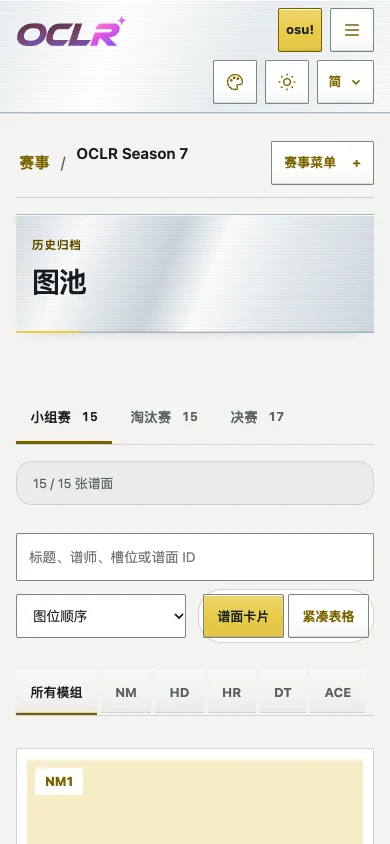
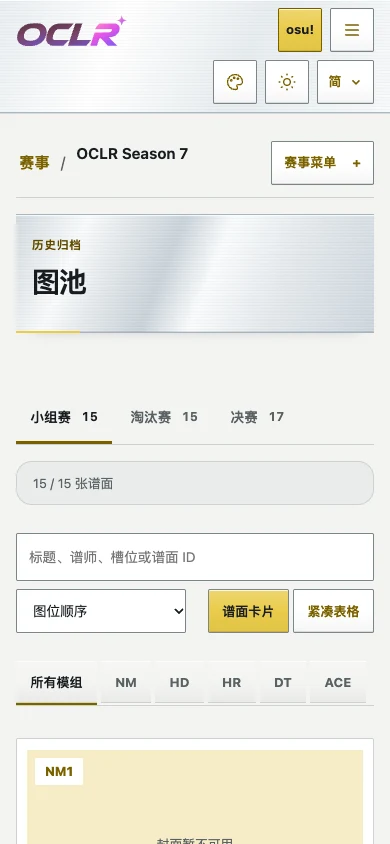
test: verify S7 mappool controls across browsers and record visual fixes

diff --git a/tests/e2e/graphite-appearance.spec.ts b/tests/e2e/graphite-appearance.spec.ts
@@ -43,13 +43,11 @@ test.describe("S7 Graphite Arena appearance", () => {
   test.afterAll(closeDb);
 
   test("keeps mappool text actions clear and long titles readable", async ({
-    page,
     context,
     isMobile,
-  }, info) => {
+  }) => {
     test.setTimeout(180000);
     const errors: string[] = [];
-    page.on("pageerror", (error) => errors.push(error.message));
     // Cover-provider failures must not affect title layout or the real controls.
     await context.route("https://assets.ppy.sh/**", (route) =>
       route.fulfill({ status: 404, body: "" }),
@@ -57,6 +55,11 @@ test.describe("S7 Graphite Arena appearance", () => {
     for (const locale of ["en", "zh-Hans", "zh-Hant"])
       for (const theme of ["light", "dark"])
         for (const width of isMobile ? [320, 390, 699] : [655, 699, 1440]) {
+          // Keep matrix cases on independent pages so a deliberate preference or
+          // viewport change never interrupts the previous page's RSC prefetches.
+          const page = await context.newPage();
+          page.on("pageerror", (error) => errors.push(error.message));
+          await page.setViewportSize({ width, height: 815 });
           await context.addCookies(
             [
               ["oclr-locale", locale],
@@ -64,7 +67,6 @@ test.describe("S7 Graphite Arena appearance", () => {
               ["oclr-appearance", "graphite-arena"],
             ].map(([name, value]) => ({ name, value, url: origin })),
           );
-          await page.setViewportSize({ width, height: 815 });
           expect((await page.goto("/tournaments/s7/mappools"))?.status()).toBe(
             200,
           );
@@ -125,52 +127,49 @@ test.describe("S7 Graphite Arena appearance", () => {
                   .analyze()
               ).violations,
             ).toEqual([]);
-            await page
-              .locator("#map-NM2")
-              .evaluate((node) => node.scrollIntoView({ block: "center" }));
-            await page.screenshot({
-              path: info.outputPath(`mappools-${locale}-${theme}.png`),
-              animations: "disabled",
-            });
           }
+          if (locale === "zh-Hant" && theme === "dark" && width === 699) {
+            // Keyboard activation still opens the full title and restores focus on close.
+            const title = page.locator("#map-ACE1 .map-open-button");
+            await title.focus();
+            await expect(title).toHaveCSS("outline-style", /solid|auto/);
+            await page.keyboard.down("Space");
+            await expect(title).toHaveCSS("background-image", "none");
+            await expect(title).toHaveCSS("box-shadow", "none");
+            await expect(title).toHaveCSS("transform", "none");
+            await page.keyboard.up("Space");
+            const dialog = page.getByRole("dialog");
+            await expect(dialog.getByRole("heading").first()).toHaveText(
+              "Shimotsuki Haruka - Secret Liqueur [Last Order]",
+            );
+            await page.keyboard.press("Escape");
+            await expect(title).toBeFocused();
+            await page.locator(".map-view-control button").last().click();
+            await expect(page.locator(".archive-map-list")).toBeVisible();
+            await expect(
+              page.locator(".map-view-control button").last(),
+            ).toHaveAttribute("aria-pressed", "true");
+            await expect(page.locator("#map-NM2 .map-open-button")).toHaveCSS(
+              "background-image",
+              "none",
+            );
+            await page.locator("#map-NM2 .map-open-button").click();
+            await expect(dialog.getByRole("heading").first()).toHaveText(
+              "DragonForce - My Heart Will Go On [Expert]",
+            );
+            await page.keyboard.press("Escape");
+            await page.emulateMedia({ forcedColors: "active" });
+            await expect(page.locator(".map-view-control")).toHaveCSS(
+              "border-top-width",
+              "0px",
+            );
+            await expect(
+              page.locator('.map-view-control button[aria-pressed="true"]'),
+            ).toHaveCSS("outline-style", "solid");
+          }
+          await page.waitForLoadState("networkidle");
+          await page.close();
         }
-    // Keyboard activation still opens the full title and restores focus on close.
-    const title = page.locator("#map-ACE1 .map-open-button");
-    await title.focus();
-    await expect(title).toHaveCSS("outline-style", /solid|auto/);
-    await page.keyboard.down("Space");
-    await expect(title).toHaveCSS("background-image", "none");
-    await expect(title).toHaveCSS("box-shadow", "none");
-    await expect(title).toHaveCSS("transform", "none");
-    await page.keyboard.up("Space");
-    const dialog = page.getByRole("dialog");
-    await expect(dialog.getByRole("heading").first()).toHaveText(
-      "Shimotsuki Haruka - Secret Liqueur [Last Order]",
-    );
-    await page.keyboard.press("Escape");
-    await expect(title).toBeFocused();
-    await page.locator(".map-view-control button").last().click();
-    await expect(page.locator(".archive-map-list")).toBeVisible();
-    await expect(
-      page.locator(".map-view-control button").last(),
-    ).toHaveAttribute("aria-pressed", "true");
-    await expect(page.locator("#map-NM2 .map-open-button")).toHaveCSS(
-      "background-image",
-      "none",
-    );
-    await page.locator("#map-NM2 .map-open-button").click();
-    await expect(dialog.getByRole("heading").first()).toHaveText(
-      "DragonForce - My Heart Will Go On [Expert]",
-    );
-    await page.keyboard.press("Escape");
-    await page.emulateMedia({ forcedColors: "active" });
-    await expect(page.locator(".map-view-control")).toHaveCSS(
-      "border-top-width",
-      "0px",
-    );
-    await expect(
-      page.locator('.map-view-control button[aria-pressed="true"]'),
-    ).toHaveCSS("outline-style", "solid");
     expect(errors).toEqual([]);
   });
 

diff --git a/docs/design/season-themes/s7.html b/docs/design/season-themes/s7.html
@@ -77,8 +77,8 @@
     <header>
       <h1>S7 · 最新應用 UI 設計對照</h1>
       <p>
-        圖片來自 main <code>515be9c</code> 上的 S7 實作
-        <code>182075a</code> 實際頁面，使用 S7 Graphite Arena 的 SSR
+        圖片來自 main <code>d34378e</code> 上的 S7 實作
+        <code>5ebd162</code> 實際頁面，使用 S7 Graphite Arena 的 SSR
         外觀偏好與打包樣式。拉絲銀色／深鋼金屬、具倒角與內凹槽的六角金屬嵌件，配上蜂巢線稿及競技黃細線；保留完整原主視覺。
       </p>
       <p>
@@ -92,6 +92,11 @@
     <p style="margin: 16px 24px">
       金屬嵌件局部：<a href="s7/detail-desktop-light.png">Light</a> ·
       <a href="s7/detail-desktop-dark.png">Dark</a>（實際頁面 2× 截圖）
+    </p>
+    <p style="margin: 16px 24px">
+      圖池修復局部：<a href="s7/map-controls-dark.png">檢視控制</a> ·
+      <a href="s7/map-nm2-dark.png">NM2</a> ·
+      <a href="s7/map-ace1-dark.png">ACE1</a>
     </p>
     <form aria-label="預覽控制">
       <label

diff --git a/docs/design/season-themes/s7/DESIGN.md b/docs/design/season-themes/s7/DESIGN.md
@@ -1,6 +1,6 @@
 # S7 — Graphite Arena / 石墨競技場
 
-追蹤：[#198](https://github.com/OCLR-dev/OCLR-website/issues/198)。本輪依主辦方要求，以 main `515be9c` 的實際 UI 精修並正式接入 `graphite-arena`，等待主辦方視覺審閱；未合併或部署。
+追蹤：[#198](https://github.com/OCLR-dev/OCLR-website/issues/198)。本輪依主辦方要求，以 main `d34378e` 的實際 UI 精修並正式接入 `graphite-arena`，等待主辦方視覺審閱；未合併或部署。
 
 ## 設計方向
 
@@ -75,7 +75,7 @@ DATABASE_URL="$TEST_DATABASE_URL" ADMIN_OSU_IDS=60001 APP_URL=http://127.0.0.1:3
 在另一個 terminal 對同一 DB，設定 `S7_UI_BASELINE` 為本輪 runtime 提交，執行：
 
 ```sh
-S7_UI_BASELINE=182075a9021b27ab470a6872b18bd8f73da41e8a node --import tsx docs/design/season-themes/s7/capture.mjs
+S7_UI_BASELINE=5ebd16294a21f581d37d9dd70236b1cd11255a18 node --import tsx docs/design/season-themes/s7/capture.mjs
 ```
 
 截圖程式核對 runtime／messages／public 與指定 SHA 完全一致，從實際 SSR 外觀偏好與已打包 CSS 產圖；不注入候選 CSS、不更換元件。檢查三個路由 × 四個寬度（320／390／768／1440）× 明暗、Axe AA、DOM／文字不變、五列統計、完整原圖、手機選單／焦點與 sticky stack，另檢查四組 forced colours。合成 session 只在記憶體，不進截圖或原始碼。
@@ -139,3 +139,16 @@ S7_UI_BASELINE=182075a9021b27ab470a6872b18bd8f73da41e8a node --import tsx docs/d
 建立 PR 時 main 已合併 #383 的系統明暗偏好。正常合併 main `515be9c`，三語 catalog 同時保留系統明暗訊息與 S7 名稱，未覆蓋任一方功能；S7 視覺素材與金屬樣式不變。合併後 runtime 為 `182075a9021b27ab470a6872b18bd8f73da41e8a`，最新圖庫依該實際 UI 重製。
 
 新增 S7 跟隨系統 → 手動覆蓋 → 恢復跟隨 → 跨頁的明暗回歸。相關 141 項單元測試、i18n extraction、check、最終 tsc 與 production build 通過。Chrome 桌面／手機 22 項通過，包含 S7／系統明暗、三語選單、Header 幾何、全站／賽事預設及公開／Admin／Captain／OBS；Safari 桌面／手機 4 項通過。最新 24 組 UI／24 次 Axe AA 零違規，4 組 forced colours 通過；16 張頁面圖、2 張局部、2 張選單與12張 default 對照已更新。沒有重跑未受影響的完整 unit/integration 或依賴稽核，CI 以 PR #384 的 exact head 為準。
+
+### 圖池控制與長標題修復（2026-10-27，PR #384 合併後）
+
+主辦方在 655／699px 圖池頁標註三處：檢視切換外層圓框、NM2 及 ACE1 標題誤套金屬按鈕底板／底板跟隨文字長度。修復分支基於 main `d34378e`，runtime 為 `5ebd16294a21f581d37d9dd70236b1cd11255a18`。
+
+- 圖池檢視切換外層移除 border／radius／padding／底色；保留兩顆獨立控制、選取狀態、鍵盤焦點與高對比標記。
+- 通用金屬材質排除 `.map-open-button`；譜面標題在一般、hover、focus、active 都是透明文字操作，沒有金屬漸層、陰影或按壓位移。
+- 標題點選區使用整欄寬、至少44px高，沿用所在標題的字體與1.5行高；完整 literal 曲名與難度可換行，不裁切或縮成固定字數。卡片／緊湊表格均可開啟原詳情與還原焦點。
+- 699px 實測：修復前 NM2／ACE1 點選區分別338.22／374.30px，所在標題欄為404.89px，且帶有漸層／inset陰影；修復後兩者均為404.89px，背景與陰影為none。外層24px圓角／1px框改為0。
+
+[檢視控制 Light](map-controls-light.png)／[Dark](map-controls-dark.png) · [NM2 Light](map-nm2-light.png)／[Dark](map-nm2-dark.png) · [ACE1 Light](map-ace1-light.png)／[Dark](map-ace1-dark.png)。來自699px實際頁面、原生2×局部，沒有後製。隔離預覽阻擋外部封面服務，因此局部圖使用既有缺圖狀態；修復未更改封面來源。
+
+本輪 check／production build／tsc／lint 通過。更新24組實際UI／24次Axe AA及4組forced colours，零錯誤。新增回歸以每個案例獨立頁面避免 WebKit 快速切換尺寸／cookie 時中斷前頁預取，保留全部pageerror與版面／操作斷言。最終 Chrome 桌面／手機2項與 Safari桌面／手機2項通過，涵蓋三語×明暗、320／390／655／699／1440px，完整文字、44px點選區、卡片／緊湊表格、Space開啟詳情、Escape焦點還原及高對比選取。沒有忽略或移除pageerror斷言。CI於交付另記；未重跑未受影響的完整unit/integration、i18n或依賴稽核。
